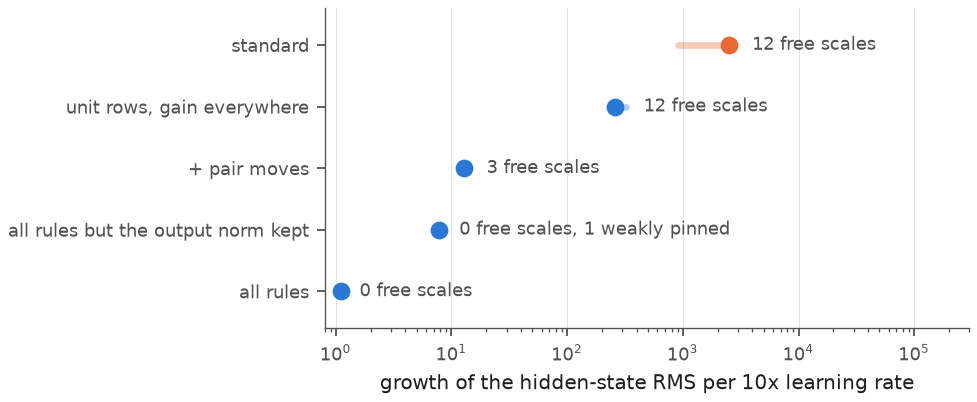
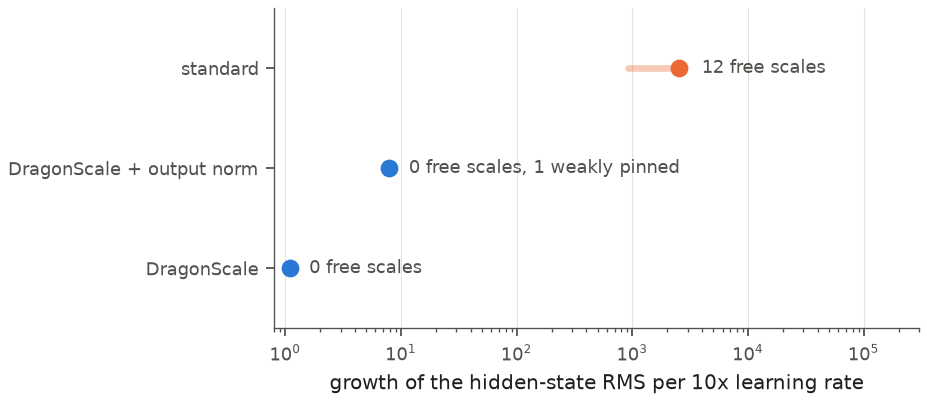
Figure B and the teaser panel: standard, DragonScale + output norm, DragonScale

diff --git a/docs/figures/teaser.py b/docs/figures/teaser.py
@@ -215,8 +215,6 @@ def ladder_panel(ax, theme):
     t, c = THEMES[theme], SLOTS[theme]
     data = rows("b_ladder.csv")
     ys = list(range(len(data)))[::-1]
-    short = {"unit rows, gain everywhere": "unit rows, gains", "all rules but the output norm kept":
-             "all rules, final norm kept"}  # fmt: skip
     for y, r in zip(ys, data, strict=True):
         color = c[MODEL["standard"]] if r["model"] == "standard" else c[MODEL["patched"]]
         ax.plot(
@@ -226,7 +224,7 @@ def ladder_panel(ax, theme):
         count = int(r["free_scales"])
         ax.annotate(f"{count} free scale{'s' if count != 1 else ''}", (r["high"], y), xytext=(8, 0), textcoords="offset points",
                     va="center", fontsize=FONT - 2, color=t["muted"])  # fmt: skip
-    ax.set_yticks(ys, [short.get(r["model"], r["model"]) for r in data])
+    ax.set_yticks(ys, [r["model"] for r in data])
     ax.set(xscale="log", xlim=(0.8, 3e5), ylim=(-0.6, len(data) - 0.4))
     ax.grid(axis="y", visible=False)
     ax.set_xlabel("growth per 10x learning rate")

diff --git a/README.md b/README.md
@@ -194,11 +194,11 @@ scripts: [docs/figures](docs/figures).
 The patched model's stays between 2 and 3.6 up to learning rate 3.2. Crosses: every fp16 AMP run
 of the standard model went non-finite there.
 
-<picture><source media="(prefers-color-scheme: dark)" srcset="docs/figures/b_ladder_dark.png"><img alt="Free scales counted by the analysis against hidden-state growth per 10x learning rate, five versions of the model" src="docs/figures/b_ladder.png" width="560"></picture>
+<picture><source media="(prefers-color-scheme: dark)" srcset="docs/figures/b_ladder_dark.png"><img alt="Free scales counted by the analysis against hidden-state growth per 10x learning rate, the standard model, DragonScale with the output norm kept, and DragonScale" src="docs/figures/b_ladder.png" width="560"></picture>
 
-**B.** 5 seeds, five versions of the same model. Growth falls as the free scales that change a
-hidden state are removed, down to 1.1x at zero. Keeping the norm in front of the output layer
-leaves one weakly pinned scale and 7.8x.
+**B.** 5 seeds. The standard model has 12 free scales that change a hidden state, and its hidden
+state grows about 2,500x per 10x learning rate. DragonScale has none and grows 1.1x. Keeping the
+norm in front of the output layer leaves one weakly pinned scale and 7.8x.
 
 <picture><source media="(prefers-color-scheme: dark)" srcset="docs/figures/c_angle_dark.png"><img alt="Angle a unit row turns per step times sqrt(t), against step" src="docs/figures/c_angle.png" width="560"></picture>
 
